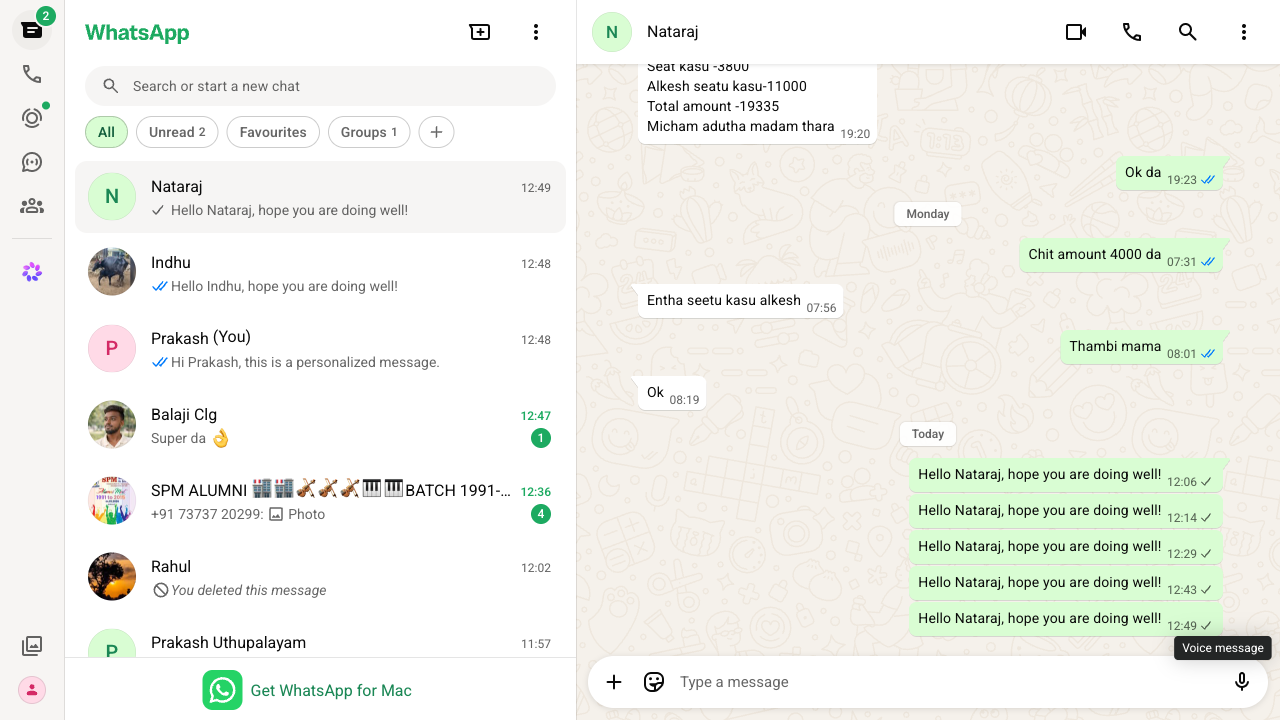
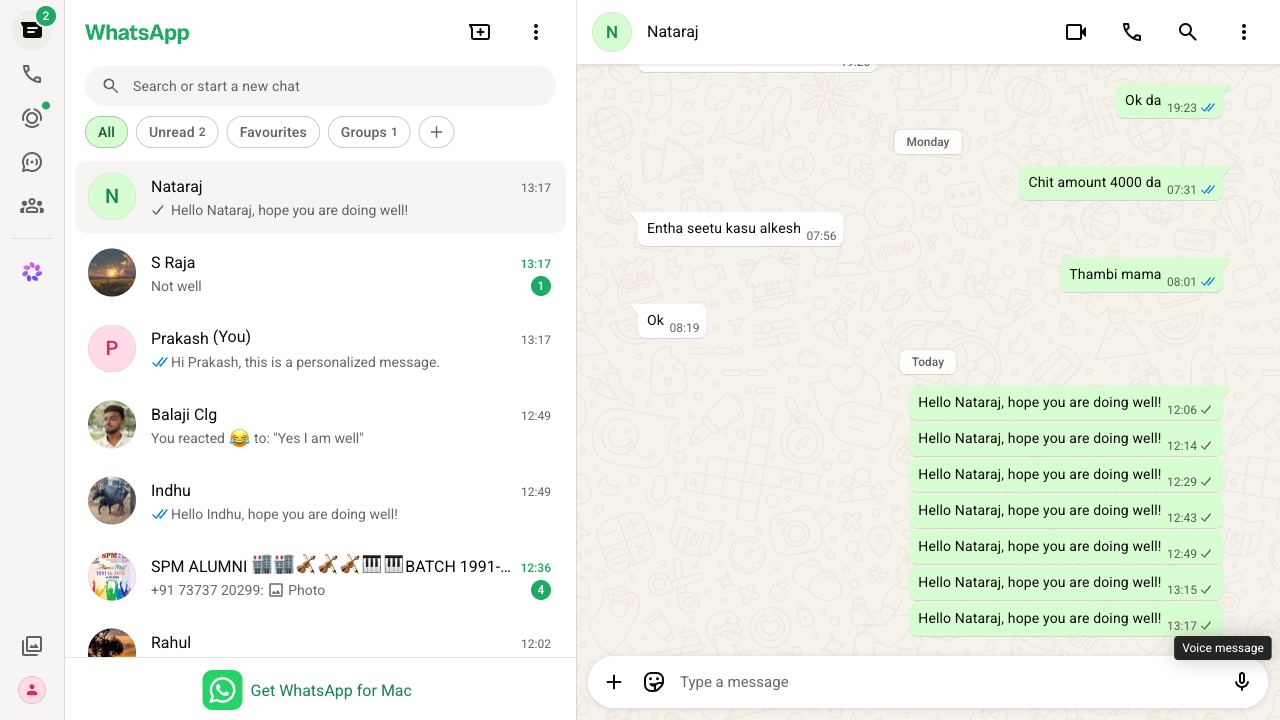
few png file removed

diff --git a/whatsappautomation.py b/whatsappautomation.py
@@ -24,7 +24,7 @@ contacts = [
         "message": "Hello {name}, hope you are doing well!"
     },
     {
-        "name": "Balaji",
+        "name": "Raja",
         "number": "9876543211",
         "message": "Hello {name}, hope you are doing well!"
     }
